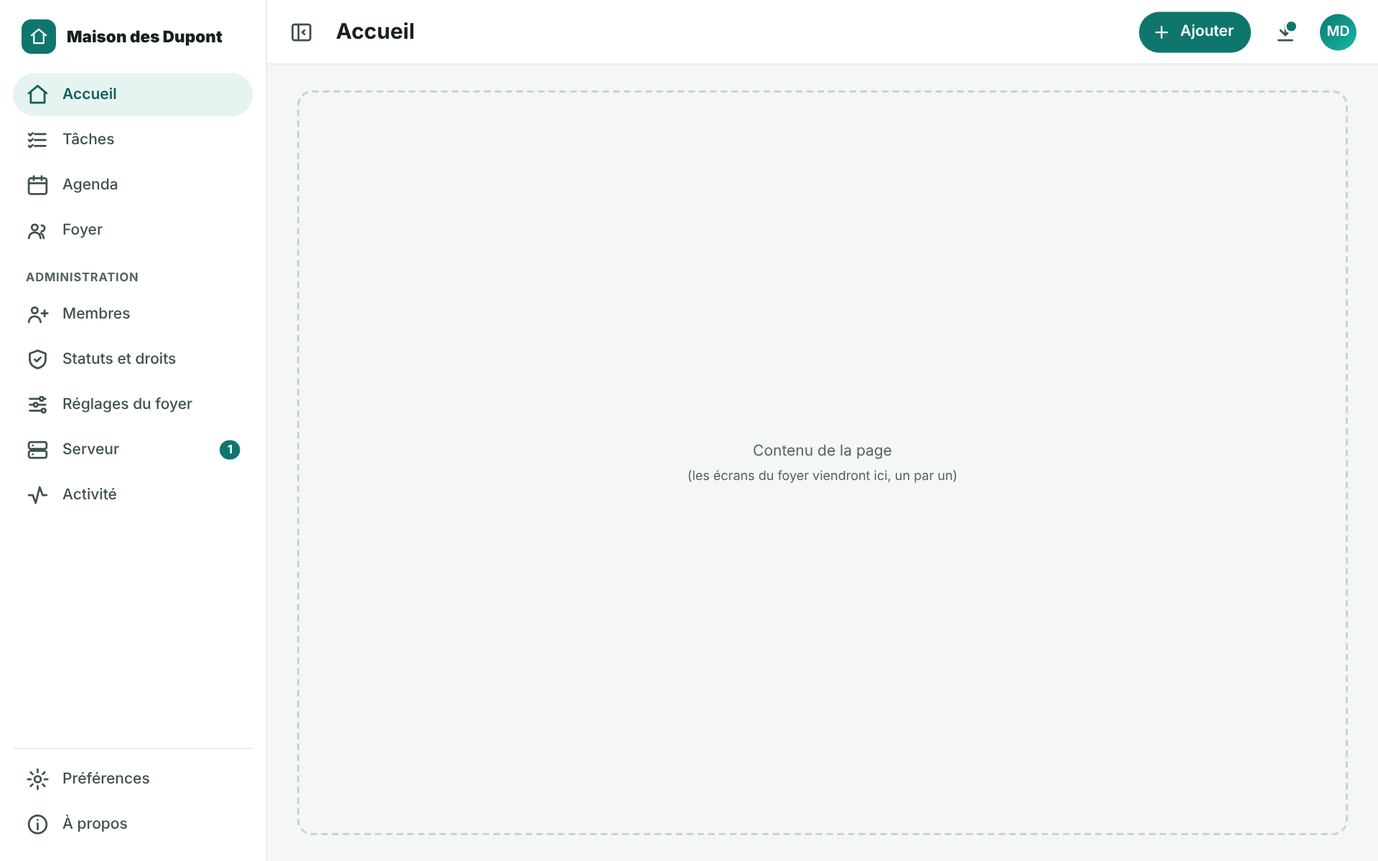
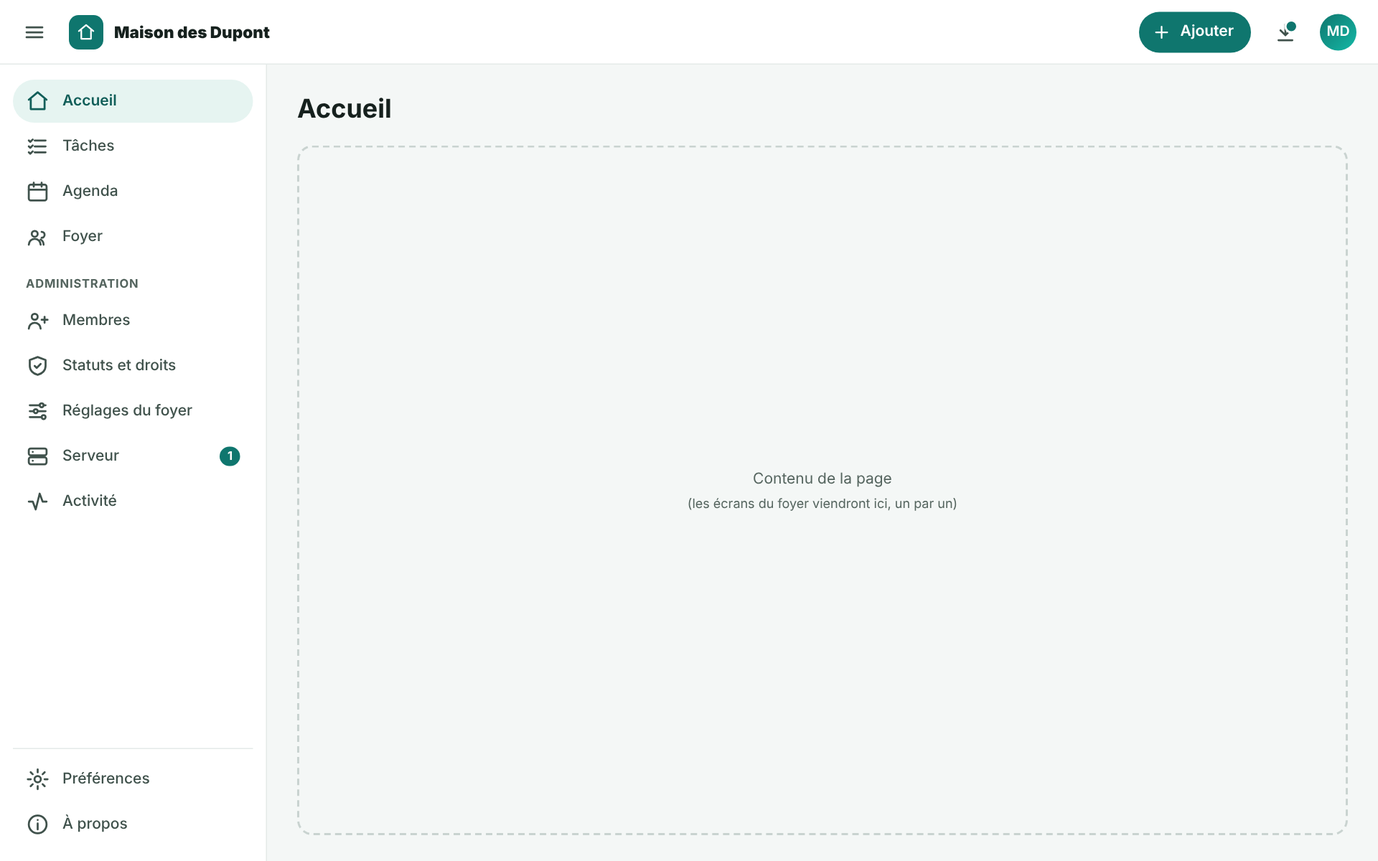
docs(maquettes web): la barre d'outils au-dessus de la navigation
Claude-Session: https://claude.ai/code/session_01CwM8UZavZyFdh7jkANxEp5

diff --git a/docs/mockups/cadre/5-mobile-volet.html b/docs/mockups/cadre/5-mobile-volet.html
@@ -2,17 +2,16 @@
 <html lang="fr"><head><meta charset="utf-8"><title>Cadre — téléphone, menu ouvert</title><link rel="stylesheet" href="cadre.css"></head>
 <body class="mobile">
 <header class="barre">
-    <div class="icone" title="Ouvrir le menu"><svg viewBox="0 0 24 24" width="22" height="22" fill="none" stroke="currentColor" stroke-width="2" stroke-linecap="round" stroke-linejoin="round"><path d="M4 7h16M4 12h16M4 17h16"/></svg></div>
-    <h1>Accueil</h1>
-    
-    <div class="icone point" title="Mise à jour du serveur disponible"><svg viewBox="0 0 24 24" width="22" height="22" fill="none" stroke="currentColor" stroke-width="2" stroke-linecap="round" stroke-linejoin="round"><path d="M12 4v11M7 10l5 5 5-5M5 20h14"/></svg></div>
-    <span class="photo">MD</span>
-  </header><main class="contenu" style="padding:16px"><div class="zone">Contenu de la page<br><span class="muet">(les écrans du foyer viendront ici, un par un)</span></div></main><div style="position:absolute;right:20px;bottom:84px;width:58px;height:58px;border-radius:18px;background:var(--accent);color:#fff;display:flex;align-items:center;justify-content:center;box-shadow:0 6px 16px rgba(15,118,110,.35)"><svg viewBox="0 0 24 24" width="28" height="28" fill="none" stroke="currentColor" stroke-width="2" stroke-linecap="round" stroke-linejoin="round"><path d="M12 5v14M5 12h14"/></svg></div><nav class="onglets"><div class="actif"><svg viewBox="0 0 24 24" width="22" height="22" fill="none" stroke="currentColor" stroke-width="2" stroke-linecap="round" stroke-linejoin="round"><path d="M3 10.5 12 3l9 7.5"/><path d="M5 10v10h14V10"/></svg>Accueil</div><div><svg viewBox="0 0 24 24" width="22" height="22" fill="none" stroke="currentColor" stroke-width="2" stroke-linecap="round" stroke-linejoin="round"><path d="M9 6h11M9 12h11M9 18h11"/><path d="m3 6 1.5 1.5L7 5M3 12l1.5 1.5L7 11M3 18l1.5 1.5L7 17"/></svg>Tâches</div><div><svg viewBox="0 0 24 24" width="22" height="22" fill="none" stroke="currentColor" stroke-width="2" stroke-linecap="round" stroke-linejoin="round"><rect x="3" y="5" width="18" height="16" rx="2"/><path d="M8 3v4M16 3v4M3 10h18"/></svg>Agenda</div></nav><div class="voile"></div><nav class="nav volet">
+  <div class="icone" title="Ouvrir le menu"><svg viewBox="0 0 24 24" width="22" height="22" fill="none" stroke="currentColor" stroke-width="2" stroke-linecap="round" stroke-linejoin="round"><path d="M4 7h16M4 12h16M4 17h16"/></svg></div>
   <div class="marque"><span class="logo"><svg viewBox="0 0 24 24" width="18" height="18" fill="none" stroke="currentColor" stroke-width="2" stroke-linecap="round" stroke-linejoin="round"><path d="M3 10.5 12 3l9 7.5"/><path d="M6 9.5V20h12V9.5"/></svg></span><b>Maison des Dupont</b></div>
+  
+  <div class="icone point" title="Mise à jour du serveur disponible"><svg viewBox="0 0 24 24" width="22" height="22" fill="none" stroke="currentColor" stroke-width="2" stroke-linecap="round" stroke-linejoin="round"><path d="M12 4v11M7 10l5 5 5-5M5 20h14"/></svg></div>
+  <span class="photo">MD</span>
+</header><main class="contenu" style="padding:16px"><h1 class="titre-page">Accueil</h1><div class="zone">Contenu de la page<span class="muet">(les écrans du foyer viendront ici, un par un)</span></div></main><div style="position:absolute;right:20px;bottom:84px;width:58px;height:58px;border-radius:18px;background:var(--accent);color:#fff;display:flex;align-items:center;justify-content:center;box-shadow:0 6px 16px rgba(15,118,110,.35)"><svg viewBox="0 0 24 24" width="28" height="28" fill="none" stroke="currentColor" stroke-width="2" stroke-linecap="round" stroke-linejoin="round"><path d="M12 5v14M5 12h14"/></svg></div><nav class="onglets"><div class="actif"><svg viewBox="0 0 24 24" width="22" height="22" fill="none" stroke="currentColor" stroke-width="2" stroke-linecap="round" stroke-linejoin="round"><path d="M3 10.5 12 3l9 7.5"/><path d="M5 10v10h14V10"/></svg>Accueil</div><div><svg viewBox="0 0 24 24" width="22" height="22" fill="none" stroke="currentColor" stroke-width="2" stroke-linecap="round" stroke-linejoin="round"><path d="M9 6h11M9 12h11M9 18h11"/><path d="m3 6 1.5 1.5L7 5M3 12l1.5 1.5L7 11M3 18l1.5 1.5L7 17"/></svg>Tâches</div><div><svg viewBox="0 0 24 24" width="22" height="22" fill="none" stroke="currentColor" stroke-width="2" stroke-linecap="round" stroke-linejoin="round"><rect x="3" y="5" width="18" height="16" rx="2"/><path d="M8 3v4M16 3v4M3 10h18"/></svg>Agenda</div></nav><div class="voile" style="top:60px"></div><div style="position:absolute;top:60px;bottom:0;left:0"><nav class="nav volet">
   <a class="actif " href="#"><svg viewBox="0 0 24 24" width="22" height="22" fill="none" stroke="currentColor" stroke-width="2" stroke-linecap="round" stroke-linejoin="round"><path d="M3 10.5 12 3l9 7.5"/><path d="M5 10v10h14V10"/></svg><span>Accueil</span></a><a class=" " href="#"><svg viewBox="0 0 24 24" width="22" height="22" fill="none" stroke="currentColor" stroke-width="2" stroke-linecap="round" stroke-linejoin="round"><path d="M9 6h11M9 12h11M9 18h11"/><path d="m3 6 1.5 1.5L7 5M3 12l1.5 1.5L7 11M3 18l1.5 1.5L7 17"/></svg><span>Tâches</span></a><a class=" " href="#"><svg viewBox="0 0 24 24" width="22" height="22" fill="none" stroke="currentColor" stroke-width="2" stroke-linecap="round" stroke-linejoin="round"><rect x="3" y="5" width="18" height="16" rx="2"/><path d="M8 3v4M16 3v4M3 10h18"/></svg><span>Agenda</span></a><a class=" " href="#"><svg viewBox="0 0 24 24" width="22" height="22" fill="none" stroke="currentColor" stroke-width="2" stroke-linecap="round" stroke-linejoin="round"><circle cx="9" cy="9" r="3"/><path d="M3 20a6 6 0 0 1 12 0M16 7a3 3 0 0 1 0 6M18 20a6 6 0 0 0-3-5.2"/></svg><span>Foyer</span></a>
   <div class="groupe">Administration</div>
-  <a class=" " href="#"><svg viewBox="0 0 24 24" width="22" height="22" fill="none" stroke="currentColor" stroke-width="2" stroke-linecap="round" stroke-linejoin="round"><circle cx="9" cy="8" r="3"/><path d="M3 20a6 6 0 0 1 12 0"/><path d="M19 8v6M16 11h6"/></svg><span>Membres</span></a><a class=" " href="#"><svg viewBox="0 0 24 24" width="22" height="22" fill="none" stroke="currentColor" stroke-width="2" stroke-linecap="round" stroke-linejoin="round"><path d="M12 3 4 6v6c0 4.5 3.4 8 8 9 4.6-1 8-4.5 8-9V6z"/><path d="m9 12 2 2 4-4"/></svg><span>Statuts et droits</span></a><a class=" " href="#"><svg viewBox="0 0 24 24" width="22" height="22" fill="none" stroke="currentColor" stroke-width="2" stroke-linecap="round" stroke-linejoin="round"><path d="M4 6h10M18 6h2M4 12h4M12 12h8M4 18h12M20 18h0"/><circle cx="16" cy="6" r="2"/><circle cx="10" cy="12" r="2"/><circle cx="18" cy="18" r="2"/></svg><span>Réglages du foyer</span></a><a class=" point" href="#"><svg viewBox="0 0 24 24" width="22" height="22" fill="none" stroke="currentColor" stroke-width="2" stroke-linecap="round" stroke-linejoin="round"><rect x="3" y="4" width="18" height="7" rx="2"/><rect x="3" y="13" width="18" height="7" rx="2"/><path d="M7 7.5h.01M7 16.5h.01"/></svg><span>Serveur</span><span class="pastille">1</span></a><a class=" " href="#"><svg viewBox="0 0 24 24" width="22" height="22" fill="none" stroke="currentColor" stroke-width="2" stroke-linecap="round" stroke-linejoin="round"><path d="M3 12h4l3 8 4-16 3 8h4"/></svg><span>Activité</span></a>
+  <a class=" " href="#"><svg viewBox="0 0 24 24" width="22" height="22" fill="none" stroke="currentColor" stroke-width="2" stroke-linecap="round" stroke-linejoin="round"><circle cx="9" cy="8" r="3"/><path d="M3 20a6 6 0 0 1 12 0"/><path d="M19 8v6M16 11h6"/></svg><span>Membres</span></a><a class=" " href="#"><svg viewBox="0 0 24 24" width="22" height="22" fill="none" stroke="currentColor" stroke-width="2" stroke-linecap="round" stroke-linejoin="round"><path d="M12 3 4 6v6c0 4.5 3.4 8 8 9 4.6-1 8-4.5 8-9V6z"/><path d="m9 12 2 2 4-4"/></svg><span>Statuts et droits</span></a><a class=" " href="#"><svg viewBox="0 0 24 24" width="22" height="22" fill="none" stroke="currentColor" stroke-width="2" stroke-linecap="round" stroke-linejoin="round"><path d="M4 6h10M18 6h2M4 12h4M12 12h8M4 18h12"/><circle cx="16" cy="6" r="2"/><circle cx="10" cy="12" r="2"/><circle cx="18" cy="18" r="2"/></svg><span>Réglages du foyer</span></a><a class=" point" href="#"><svg viewBox="0 0 24 24" width="22" height="22" fill="none" stroke="currentColor" stroke-width="2" stroke-linecap="round" stroke-linejoin="round"><rect x="3" y="4" width="18" height="7" rx="2"/><rect x="3" y="13" width="18" height="7" rx="2"/><path d="M7 7.5h.01M7 16.5h.01"/></svg><span>Serveur</span><span class="pastille">1</span></a><a class=" " href="#"><svg viewBox="0 0 24 24" width="22" height="22" fill="none" stroke="currentColor" stroke-width="2" stroke-linecap="round" stroke-linejoin="round"><path d="M3 12h4l3 8 4-16 3 8h4"/></svg><span>Activité</span></a>
   <div class="bas"><a class=" " href="#"><svg viewBox="0 0 24 24" width="22" height="22" fill="none" stroke="currentColor" stroke-width="2" stroke-linecap="round" stroke-linejoin="round"><circle cx="12" cy="12" r="3.2"/><path d="M12 2v3M12 19v3M2 12h3M19 12h3M4.9 4.9l2.1 2.1M17 17l2.1 2.1M4.9 19.1 7 17M17 7l2.1-2.1"/></svg><span>Préférences</span></a><a class=" " href="#"><svg viewBox="0 0 24 24" width="22" height="22" fill="none" stroke="currentColor" stroke-width="2" stroke-linecap="round" stroke-linejoin="round"><circle cx="12" cy="12" r="9"/><path d="M12 11v6M12 7.5h.01"/></svg><span>À propos</span></a></div>
   
-</nav>
+</nav></div>
 </body></html>

diff --git a/docs/mockups/cadre/3-ordi-menu-compte.html b/docs/mockups/cadre/3-ordi-menu-compte.html
@@ -1,20 +1,19 @@
 <!doctype html>
 <html lang="fr"><head><meta charset="utf-8"><title>Cadre — menu du compte</title><link rel="stylesheet" href="cadre.css"></head>
 <body class="ordi">
-<nav class="nav ">
+<header class="barre">
+  <div class="icone" title="Replier ou déplier le menu"><svg viewBox="0 0 24 24" width="22" height="22" fill="none" stroke="currentColor" stroke-width="2" stroke-linecap="round" stroke-linejoin="round"><path d="M4 7h16M4 12h16M4 17h16"/></svg></div>
   <div class="marque"><span class="logo"><svg viewBox="0 0 24 24" width="18" height="18" fill="none" stroke="currentColor" stroke-width="2" stroke-linecap="round" stroke-linejoin="round"><path d="M3 10.5 12 3l9 7.5"/><path d="M6 9.5V20h12V9.5"/></svg></span><b>Maison des Dupont</b></div>
+  <div class="ajouter"><svg viewBox="0 0 24 24" width="18" height="18" fill="none" stroke="currentColor" stroke-width="2" stroke-linecap="round" stroke-linejoin="round"><path d="M12 5v14M5 12h14"/></svg>Ajouter</div>
+  <div class="icone point" title="Mise à jour du serveur disponible"><svg viewBox="0 0 24 24" width="22" height="22" fill="none" stroke="currentColor" stroke-width="2" stroke-linecap="round" stroke-linejoin="round"><path d="M12 4v11M7 10l5 5 5-5M5 20h14"/></svg></div>
+  <span class="photo">MD</span>
+</header><div class="dessous"><nav class="nav ">
   <a class="actif " href="#"><svg viewBox="0 0 24 24" width="22" height="22" fill="none" stroke="currentColor" stroke-width="2" stroke-linecap="round" stroke-linejoin="round"><path d="M3 10.5 12 3l9 7.5"/><path d="M5 10v10h14V10"/></svg><span>Accueil</span></a><a class=" " href="#"><svg viewBox="0 0 24 24" width="22" height="22" fill="none" stroke="currentColor" stroke-width="2" stroke-linecap="round" stroke-linejoin="round"><path d="M9 6h11M9 12h11M9 18h11"/><path d="m3 6 1.5 1.5L7 5M3 12l1.5 1.5L7 11M3 18l1.5 1.5L7 17"/></svg><span>Tâches</span></a><a class=" " href="#"><svg viewBox="0 0 24 24" width="22" height="22" fill="none" stroke="currentColor" stroke-width="2" stroke-linecap="round" stroke-linejoin="round"><rect x="3" y="5" width="18" height="16" rx="2"/><path d="M8 3v4M16 3v4M3 10h18"/></svg><span>Agenda</span></a><a class=" " href="#"><svg viewBox="0 0 24 24" width="22" height="22" fill="none" stroke="currentColor" stroke-width="2" stroke-linecap="round" stroke-linejoin="round"><circle cx="9" cy="9" r="3"/><path d="M3 20a6 6 0 0 1 12 0M16 7a3 3 0 0 1 0 6M18 20a6 6 0 0 0-3-5.2"/></svg><span>Foyer</span></a>
   <div class="groupe">Administration</div>
-  <a class=" " href="#"><svg viewBox="0 0 24 24" width="22" height="22" fill="none" stroke="currentColor" stroke-width="2" stroke-linecap="round" stroke-linejoin="round"><circle cx="9" cy="8" r="3"/><path d="M3 20a6 6 0 0 1 12 0"/><path d="M19 8v6M16 11h6"/></svg><span>Membres</span></a><a class=" " href="#"><svg viewBox="0 0 24 24" width="22" height="22" fill="none" stroke="currentColor" stroke-width="2" stroke-linecap="round" stroke-linejoin="round"><path d="M12 3 4 6v6c0 4.5 3.4 8 8 9 4.6-1 8-4.5 8-9V6z"/><path d="m9 12 2 2 4-4"/></svg><span>Statuts et droits</span></a><a class=" " href="#"><svg viewBox="0 0 24 24" width="22" height="22" fill="none" stroke="currentColor" stroke-width="2" stroke-linecap="round" stroke-linejoin="round"><path d="M4 6h10M18 6h2M4 12h4M12 12h8M4 18h12M20 18h0"/><circle cx="16" cy="6" r="2"/><circle cx="10" cy="12" r="2"/><circle cx="18" cy="18" r="2"/></svg><span>Réglages du foyer</span></a><a class=" point" href="#"><svg viewBox="0 0 24 24" width="22" height="22" fill="none" stroke="currentColor" stroke-width="2" stroke-linecap="round" stroke-linejoin="round"><rect x="3" y="4" width="18" height="7" rx="2"/><rect x="3" y="13" width="18" height="7" rx="2"/><path d="M7 7.5h.01M7 16.5h.01"/></svg><span>Serveur</span><span class="pastille">1</span></a><a class=" " href="#"><svg viewBox="0 0 24 24" width="22" height="22" fill="none" stroke="currentColor" stroke-width="2" stroke-linecap="round" stroke-linejoin="round"><path d="M3 12h4l3 8 4-16 3 8h4"/></svg><span>Activité</span></a>
+  <a class=" " href="#"><svg viewBox="0 0 24 24" width="22" height="22" fill="none" stroke="currentColor" stroke-width="2" stroke-linecap="round" stroke-linejoin="round"><circle cx="9" cy="8" r="3"/><path d="M3 20a6 6 0 0 1 12 0"/><path d="M19 8v6M16 11h6"/></svg><span>Membres</span></a><a class=" " href="#"><svg viewBox="0 0 24 24" width="22" height="22" fill="none" stroke="currentColor" stroke-width="2" stroke-linecap="round" stroke-linejoin="round"><path d="M12 3 4 6v6c0 4.5 3.4 8 8 9 4.6-1 8-4.5 8-9V6z"/><path d="m9 12 2 2 4-4"/></svg><span>Statuts et droits</span></a><a class=" " href="#"><svg viewBox="0 0 24 24" width="22" height="22" fill="none" stroke="currentColor" stroke-width="2" stroke-linecap="round" stroke-linejoin="round"><path d="M4 6h10M18 6h2M4 12h4M12 12h8M4 18h12"/><circle cx="16" cy="6" r="2"/><circle cx="10" cy="12" r="2"/><circle cx="18" cy="18" r="2"/></svg><span>Réglages du foyer</span></a><a class=" point" href="#"><svg viewBox="0 0 24 24" width="22" height="22" fill="none" stroke="currentColor" stroke-width="2" stroke-linecap="round" stroke-linejoin="round"><rect x="3" y="4" width="18" height="7" rx="2"/><rect x="3" y="13" width="18" height="7" rx="2"/><path d="M7 7.5h.01M7 16.5h.01"/></svg><span>Serveur</span><span class="pastille">1</span></a><a class=" " href="#"><svg viewBox="0 0 24 24" width="22" height="22" fill="none" stroke="currentColor" stroke-width="2" stroke-linecap="round" stroke-linejoin="round"><path d="M3 12h4l3 8 4-16 3 8h4"/></svg><span>Activité</span></a>
   <div class="bas"><a class=" " href="#"><svg viewBox="0 0 24 24" width="22" height="22" fill="none" stroke="currentColor" stroke-width="2" stroke-linecap="round" stroke-linejoin="round"><circle cx="12" cy="12" r="3.2"/><path d="M12 2v3M12 19v3M2 12h3M19 12h3M4.9 4.9l2.1 2.1M17 17l2.1 2.1M4.9 19.1 7 17M17 7l2.1-2.1"/></svg><span>Préférences</span></a><a class=" " href="#"><svg viewBox="0 0 24 24" width="22" height="22" fill="none" stroke="currentColor" stroke-width="2" stroke-linecap="round" stroke-linejoin="round"><circle cx="12" cy="12" r="9"/><path d="M12 11v6M12 7.5h.01"/></svg><span>À propos</span></a></div>
   
-</nav><div class="principal"><header class="barre">
-    <div class="icone" title="Replier le menu"><svg viewBox="0 0 24 24" width="22" height="22" fill="none" stroke="currentColor" stroke-width="2" stroke-linecap="round" stroke-linejoin="round"><rect x="3" y="4" width="18" height="16" rx="2"/><path d="M9 4v16M15 10l-2 2 2 2"/></svg></div>
-    <h1>Accueil</h1>
-    <div class="ajouter"><svg viewBox="0 0 24 24" width="18" height="18" fill="none" stroke="currentColor" stroke-width="2" stroke-linecap="round" stroke-linejoin="round"><path d="M12 5v14M5 12h14"/></svg>Ajouter</div>
-    <div class="icone point" title="Mise à jour du serveur disponible"><svg viewBox="0 0 24 24" width="22" height="22" fill="none" stroke="currentColor" stroke-width="2" stroke-linecap="round" stroke-linejoin="round"><path d="M12 4v11M7 10l5 5 5-5M5 20h14"/></svg></div>
-    <span class="photo">MD</span>
-  </header><main class="contenu"><div class="zone">Contenu de la page<br><span class="muet">(les écrans du foyer viendront ici, un par un)</span></div></main></div><div class="menu">
+</nav><div class="principal"><main class="contenu"><h1 class="titre-page">Accueil</h1><div class="zone">Contenu de la page<span class="muet">(les écrans du foyer viendront ici, un par un)</span></div></main></div></div><div class="menu">
   <div class="qui"><span class="photo" style="width:42px;height:42px;font-size:15px">MD</span><div><b style="font-size:14px">Marie Dupont</b><div class="muet">marie · Administratrice</div></div></div>
   <a href="#"><svg viewBox="0 0 24 24" width="20" height="20" fill="none" stroke="currentColor" stroke-width="2" stroke-linecap="round" stroke-linejoin="round"><circle cx="12" cy="8" r="4"/><path d="M4 21a8 8 0 0 1 16 0"/></svg>Mon profil</a>
   <a href="#"><svg viewBox="0 0 24 24" width="20" height="20" fill="none" stroke="currentColor" stroke-width="2" stroke-linecap="round" stroke-linejoin="round"><rect x="7" y="2" width="10" height="20" rx="2"/><path d="M11 18h2"/></svg>Mes appareils</a>

diff --git a/docs/mockups/cadre/2-ordi-replie.html b/docs/mockups/cadre/2-ordi-replie.html
@@ -1,18 +1,17 @@
 <!doctype html>
 <html lang="fr"><head><meta charset="utf-8"><title>Cadre — replié</title><link rel="stylesheet" href="cadre.css"></head>
 <body class="ordi">
-<nav class="nav repliee">
+<header class="barre">
+  <div class="icone" title="Replier ou déplier le menu"><svg viewBox="0 0 24 24" width="22" height="22" fill="none" stroke="currentColor" stroke-width="2" stroke-linecap="round" stroke-linejoin="round"><path d="M4 7h16M4 12h16M4 17h16"/></svg></div>
   <div class="marque"><span class="logo"><svg viewBox="0 0 24 24" width="18" height="18" fill="none" stroke="currentColor" stroke-width="2" stroke-linecap="round" stroke-linejoin="round"><path d="M3 10.5 12 3l9 7.5"/><path d="M6 9.5V20h12V9.5"/></svg></span><b>Maison des Dupont</b></div>
+  <div class="ajouter"><svg viewBox="0 0 24 24" width="18" height="18" fill="none" stroke="currentColor" stroke-width="2" stroke-linecap="round" stroke-linejoin="round"><path d="M12 5v14M5 12h14"/></svg>Ajouter</div>
+  <div class="icone point" title="Mise à jour du serveur disponible"><svg viewBox="0 0 24 24" width="22" height="22" fill="none" stroke="currentColor" stroke-width="2" stroke-linecap="round" stroke-linejoin="round"><path d="M12 4v11M7 10l5 5 5-5M5 20h14"/></svg></div>
+  <span class="photo">MD</span>
+</header><div class="dessous"><nav class="nav repliee">
   <a class="actif " href="#"><svg viewBox="0 0 24 24" width="22" height="22" fill="none" stroke="currentColor" stroke-width="2" stroke-linecap="round" stroke-linejoin="round"><path d="M3 10.5 12 3l9 7.5"/><path d="M5 10v10h14V10"/></svg><span>Accueil</span></a><a class=" " href="#"><svg viewBox="0 0 24 24" width="22" height="22" fill="none" stroke="currentColor" stroke-width="2" stroke-linecap="round" stroke-linejoin="round"><path d="M9 6h11M9 12h11M9 18h11"/><path d="m3 6 1.5 1.5L7 5M3 12l1.5 1.5L7 11M3 18l1.5 1.5L7 17"/></svg><span>Tâches</span></a><a class=" " href="#"><svg viewBox="0 0 24 24" width="22" height="22" fill="none" stroke="currentColor" stroke-width="2" stroke-linecap="round" stroke-linejoin="round"><rect x="3" y="5" width="18" height="16" rx="2"/><path d="M8 3v4M16 3v4M3 10h18"/></svg><span>Agenda</span></a><a class=" " href="#"><svg viewBox="0 0 24 24" width="22" height="22" fill="none" stroke="currentColor" stroke-width="2" stroke-linecap="round" stroke-linejoin="round"><circle cx="9" cy="9" r="3"/><path d="M3 20a6 6 0 0 1 12 0M16 7a3 3 0 0 1 0 6M18 20a6 6 0 0 0-3-5.2"/></svg><span>Foyer</span></a>
   <div class="groupe">Administration</div>
-  <a class=" " href="#"><svg viewBox="0 0 24 24" width="22" height="22" fill="none" stroke="currentColor" stroke-width="2" stroke-linecap="round" stroke-linejoin="round"><circle cx="9" cy="8" r="3"/><path d="M3 20a6 6 0 0 1 12 0"/><path d="M19 8v6M16 11h6"/></svg><span>Membres</span></a><a class=" " href="#"><svg viewBox="0 0 24 24" width="22" height="22" fill="none" stroke="currentColor" stroke-width="2" stroke-linecap="round" stroke-linejoin="round"><path d="M12 3 4 6v6c0 4.5 3.4 8 8 9 4.6-1 8-4.5 8-9V6z"/><path d="m9 12 2 2 4-4"/></svg><span>Statuts et droits</span></a><a class=" " href="#"><svg viewBox="0 0 24 24" width="22" height="22" fill="none" stroke="currentColor" stroke-width="2" stroke-linecap="round" stroke-linejoin="round"><path d="M4 6h10M18 6h2M4 12h4M12 12h8M4 18h12M20 18h0"/><circle cx="16" cy="6" r="2"/><circle cx="10" cy="12" r="2"/><circle cx="18" cy="18" r="2"/></svg><span>Réglages du foyer</span></a><a class=" point" href="#"><svg viewBox="0 0 24 24" width="22" height="22" fill="none" stroke="currentColor" stroke-width="2" stroke-linecap="round" stroke-linejoin="round"><rect x="3" y="4" width="18" height="7" rx="2"/><rect x="3" y="13" width="18" height="7" rx="2"/><path d="M7 7.5h.01M7 16.5h.01"/></svg><span>Serveur</span><span class="pastille">1</span></a><a class=" " href="#"><svg viewBox="0 0 24 24" width="22" height="22" fill="none" stroke="currentColor" stroke-width="2" stroke-linecap="round" stroke-linejoin="round"><path d="M3 12h4l3 8 4-16 3 8h4"/></svg><span>Activité</span></a>
+  <a class=" " href="#"><svg viewBox="0 0 24 24" width="22" height="22" fill="none" stroke="currentColor" stroke-width="2" stroke-linecap="round" stroke-linejoin="round"><circle cx="9" cy="8" r="3"/><path d="M3 20a6 6 0 0 1 12 0"/><path d="M19 8v6M16 11h6"/></svg><span>Membres</span></a><a class=" " href="#"><svg viewBox="0 0 24 24" width="22" height="22" fill="none" stroke="currentColor" stroke-width="2" stroke-linecap="round" stroke-linejoin="round"><path d="M12 3 4 6v6c0 4.5 3.4 8 8 9 4.6-1 8-4.5 8-9V6z"/><path d="m9 12 2 2 4-4"/></svg><span>Statuts et droits</span></a><a class=" " href="#"><svg viewBox="0 0 24 24" width="22" height="22" fill="none" stroke="currentColor" stroke-width="2" stroke-linecap="round" stroke-linejoin="round"><path d="M4 6h10M18 6h2M4 12h4M12 12h8M4 18h12"/><circle cx="16" cy="6" r="2"/><circle cx="10" cy="12" r="2"/><circle cx="18" cy="18" r="2"/></svg><span>Réglages du foyer</span></a><a class=" point" href="#"><svg viewBox="0 0 24 24" width="22" height="22" fill="none" stroke="currentColor" stroke-width="2" stroke-linecap="round" stroke-linejoin="round"><rect x="3" y="4" width="18" height="7" rx="2"/><rect x="3" y="13" width="18" height="7" rx="2"/><path d="M7 7.5h.01M7 16.5h.01"/></svg><span>Serveur</span><span class="pastille">1</span></a><a class=" " href="#"><svg viewBox="0 0 24 24" width="22" height="22" fill="none" stroke="currentColor" stroke-width="2" stroke-linecap="round" stroke-linejoin="round"><path d="M3 12h4l3 8 4-16 3 8h4"/></svg><span>Activité</span></a>
   <div class="bas"><a class=" " href="#"><svg viewBox="0 0 24 24" width="22" height="22" fill="none" stroke="currentColor" stroke-width="2" stroke-linecap="round" stroke-linejoin="round"><circle cx="12" cy="12" r="3.2"/><path d="M12 2v3M12 19v3M2 12h3M19 12h3M4.9 4.9l2.1 2.1M17 17l2.1 2.1M4.9 19.1 7 17M17 7l2.1-2.1"/></svg><span>Préférences</span></a><a class=" " href="#"><svg viewBox="0 0 24 24" width="22" height="22" fill="none" stroke="currentColor" stroke-width="2" stroke-linecap="round" stroke-linejoin="round"><circle cx="12" cy="12" r="9"/><path d="M12 11v6M12 7.5h.01"/></svg><span>À propos</span></a></div>
-  <div class="bulle" style="top:118px">Tâches</div>
-</nav><div class="principal"><header class="barre">
-    <div class="icone" title="Déplier le menu"><svg viewBox="0 0 24 24" width="22" height="22" fill="none" stroke="currentColor" stroke-width="2" stroke-linecap="round" stroke-linejoin="round"><rect x="3" y="4" width="18" height="16" rx="2"/><path d="M9 4v16M13 10l2 2-2 2"/></svg></div>
-    <h1>Accueil</h1>
-    <div class="ajouter"><svg viewBox="0 0 24 24" width="18" height="18" fill="none" stroke="currentColor" stroke-width="2" stroke-linecap="round" stroke-linejoin="round"><path d="M12 5v14M5 12h14"/></svg>Ajouter</div>
-    <div class="icone point" title="Mise à jour du serveur disponible"><svg viewBox="0 0 24 24" width="22" height="22" fill="none" stroke="currentColor" stroke-width="2" stroke-linecap="round" stroke-linejoin="round"><path d="M12 4v11M7 10l5 5 5-5M5 20h14"/></svg></div>
-    <span class="photo">MD</span>
-  </header><main class="contenu"><div class="zone">Contenu de la page<br><span class="muet">(les écrans du foyer viendront ici, un par un)</span></div></main></div>
+  <div class="bulle" style="top:58px">Tâches</div>
+</nav><div class="principal"><main class="contenu"><h1 class="titre-page">Accueil</h1><div class="zone">Contenu de la page<span class="muet">(les écrans du foyer viendront ici, un par un)</span></div></main></div></div>
 </body></html>

diff --git a/docs/mockups/cadre/1-ordi-deplie.html b/docs/mockups/cadre/1-ordi-deplie.html
@@ -1,18 +1,17 @@
 <!doctype html>
 <html lang="fr"><head><meta charset="utf-8"><title>Cadre — déplié</title><link rel="stylesheet" href="cadre.css"></head>
 <body class="ordi">
-<nav class="nav ">
+<header class="barre">
+  <div class="icone" title="Replier ou déplier le menu"><svg viewBox="0 0 24 24" width="22" height="22" fill="none" stroke="currentColor" stroke-width="2" stroke-linecap="round" stroke-linejoin="round"><path d="M4 7h16M4 12h16M4 17h16"/></svg></div>
   <div class="marque"><span class="logo"><svg viewBox="0 0 24 24" width="18" height="18" fill="none" stroke="currentColor" stroke-width="2" stroke-linecap="round" stroke-linejoin="round"><path d="M3 10.5 12 3l9 7.5"/><path d="M6 9.5V20h12V9.5"/></svg></span><b>Maison des Dupont</b></div>
+  <div class="ajouter"><svg viewBox="0 0 24 24" width="18" height="18" fill="none" stroke="currentColor" stroke-width="2" stroke-linecap="round" stroke-linejoin="round"><path d="M12 5v14M5 12h14"/></svg>Ajouter</div>
+  <div class="icone point" title="Mise à jour du serveur disponible"><svg viewBox="0 0 24 24" width="22" height="22" fill="none" stroke="currentColor" stroke-width="2" stroke-linecap="round" stroke-linejoin="round"><path d="M12 4v11M7 10l5 5 5-5M5 20h14"/></svg></div>
+  <span class="photo">MD</span>
+</header><div class="dessous"><nav class="nav ">
   <a class="actif " href="#"><svg viewBox="0 0 24 24" width="22" height="22" fill="none" stroke="currentColor" stroke-width="2" stroke-linecap="round" stroke-linejoin="round"><path d="M3 10.5 12 3l9 7.5"/><path d="M5 10v10h14V10"/></svg><span>Accueil</span></a><a class=" " href="#"><svg viewBox="0 0 24 24" width="22" height="22" fill="none" stroke="currentColor" stroke-width="2" stroke-linecap="round" stroke-linejoin="round"><path d="M9 6h11M9 12h11M9 18h11"/><path d="m3 6 1.5 1.5L7 5M3 12l1.5 1.5L7 11M3 18l1.5 1.5L7 17"/></svg><span>Tâches</span></a><a class=" " href="#"><svg viewBox="0 0 24 24" width="22" height="22" fill="none" stroke="currentColor" stroke-width="2" stroke-linecap="round" stroke-linejoin="round"><rect x="3" y="5" width="18" height="16" rx="2"/><path d="M8 3v4M16 3v4M3 10h18"/></svg><span>Agenda</span></a><a class=" " href="#"><svg viewBox="0 0 24 24" width="22" height="22" fill="none" stroke="currentColor" stroke-width="2" stroke-linecap="round" stroke-linejoin="round"><circle cx="9" cy="9" r="3"/><path d="M3 20a6 6 0 0 1 12 0M16 7a3 3 0 0 1 0 6M18 20a6 6 0 0 0-3-5.2"/></svg><span>Foyer</span></a>
   <div class="groupe">Administration</div>
-  <a class=" " href="#"><svg viewBox="0 0 24 24" width="22" height="22" fill="none" stroke="currentColor" stroke-width="2" stroke-linecap="round" stroke-linejoin="round"><circle cx="9" cy="8" r="3"/><path d="M3 20a6 6 0 0 1 12 0"/><path d="M19 8v6M16 11h6"/></svg><span>Membres</span></a><a class=" " href="#"><svg viewBox="0 0 24 24" width="22" height="22" fill="none" stroke="currentColor" stroke-width="2" stroke-linecap="round" stroke-linejoin="round"><path d="M12 3 4 6v6c0 4.5 3.4 8 8 9 4.6-1 8-4.5 8-9V6z"/><path d="m9 12 2 2 4-4"/></svg><span>Statuts et droits</span></a><a class=" " href="#"><svg viewBox="0 0 24 24" width="22" height="22" fill="none" stroke="currentColor" stroke-width="2" stroke-linecap="round" stroke-linejoin="round"><path d="M4 6h10M18 6h2M4 12h4M12 12h8M4 18h12M20 18h0"/><circle cx="16" cy="6" r="2"/><circle cx="10" cy="12" r="2"/><circle cx="18" cy="18" r="2"/></svg><span>Réglages du foyer</span></a><a class=" point" href="#"><svg viewBox="0 0 24 24" width="22" height="22" fill="none" stroke="currentColor" stroke-width="2" stroke-linecap="round" stroke-linejoin="round"><rect x="3" y="4" width="18" height="7" rx="2"/><rect x="3" y="13" width="18" height="7" rx="2"/><path d="M7 7.5h.01M7 16.5h.01"/></svg><span>Serveur</span><span class="pastille">1</span></a><a class=" " href="#"><svg viewBox="0 0 24 24" width="22" height="22" fill="none" stroke="currentColor" stroke-width="2" stroke-linecap="round" stroke-linejoin="round"><path d="M3 12h4l3 8 4-16 3 8h4"/></svg><span>Activité</span></a>
+  <a class=" " href="#"><svg viewBox="0 0 24 24" width="22" height="22" fill="none" stroke="currentColor" stroke-width="2" stroke-linecap="round" stroke-linejoin="round"><circle cx="9" cy="8" r="3"/><path d="M3 20a6 6 0 0 1 12 0"/><path d="M19 8v6M16 11h6"/></svg><span>Membres</span></a><a class=" " href="#"><svg viewBox="0 0 24 24" width="22" height="22" fill="none" stroke="currentColor" stroke-width="2" stroke-linecap="round" stroke-linejoin="round"><path d="M12 3 4 6v6c0 4.5 3.4 8 8 9 4.6-1 8-4.5 8-9V6z"/><path d="m9 12 2 2 4-4"/></svg><span>Statuts et droits</span></a><a class=" " href="#"><svg viewBox="0 0 24 24" width="22" height="22" fill="none" stroke="currentColor" stroke-width="2" stroke-linecap="round" stroke-linejoin="round"><path d="M4 6h10M18 6h2M4 12h4M12 12h8M4 18h12"/><circle cx="16" cy="6" r="2"/><circle cx="10" cy="12" r="2"/><circle cx="18" cy="18" r="2"/></svg><span>Réglages du foyer</span></a><a class=" point" href="#"><svg viewBox="0 0 24 24" width="22" height="22" fill="none" stroke="currentColor" stroke-width="2" stroke-linecap="round" stroke-linejoin="round"><rect x="3" y="4" width="18" height="7" rx="2"/><rect x="3" y="13" width="18" height="7" rx="2"/><path d="M7 7.5h.01M7 16.5h.01"/></svg><span>Serveur</span><span class="pastille">1</span></a><a class=" " href="#"><svg viewBox="0 0 24 24" width="22" height="22" fill="none" stroke="currentColor" stroke-width="2" stroke-linecap="round" stroke-linejoin="round"><path d="M3 12h4l3 8 4-16 3 8h4"/></svg><span>Activité</span></a>
   <div class="bas"><a class=" " href="#"><svg viewBox="0 0 24 24" width="22" height="22" fill="none" stroke="currentColor" stroke-width="2" stroke-linecap="round" stroke-linejoin="round"><circle cx="12" cy="12" r="3.2"/><path d="M12 2v3M12 19v3M2 12h3M19 12h3M4.9 4.9l2.1 2.1M17 17l2.1 2.1M4.9 19.1 7 17M17 7l2.1-2.1"/></svg><span>Préférences</span></a><a class=" " href="#"><svg viewBox="0 0 24 24" width="22" height="22" fill="none" stroke="currentColor" stroke-width="2" stroke-linecap="round" stroke-linejoin="round"><circle cx="12" cy="12" r="9"/><path d="M12 11v6M12 7.5h.01"/></svg><span>À propos</span></a></div>
   
-</nav><div class="principal"><header class="barre">
-    <div class="icone" title="Replier le menu"><svg viewBox="0 0 24 24" width="22" height="22" fill="none" stroke="currentColor" stroke-width="2" stroke-linecap="round" stroke-linejoin="round"><rect x="3" y="4" width="18" height="16" rx="2"/><path d="M9 4v16M15 10l-2 2 2 2"/></svg></div>
-    <h1>Accueil</h1>
-    <div class="ajouter"><svg viewBox="0 0 24 24" width="18" height="18" fill="none" stroke="currentColor" stroke-width="2" stroke-linecap="round" stroke-linejoin="round"><path d="M12 5v14M5 12h14"/></svg>Ajouter</div>
-    <div class="icone point" title="Mise à jour du serveur disponible"><svg viewBox="0 0 24 24" width="22" height="22" fill="none" stroke="currentColor" stroke-width="2" stroke-linecap="round" stroke-linejoin="round"><path d="M12 4v11M7 10l5 5 5-5M5 20h14"/></svg></div>
-    <span class="photo">MD</span>
-  </header><main class="contenu"><div class="zone">Contenu de la page<br><span class="muet">(les écrans du foyer viendront ici, un par un)</span></div></main></div>
+</nav><div class="principal"><main class="contenu"><h1 class="titre-page">Accueil</h1><div class="zone">Contenu de la page<span class="muet">(les écrans du foyer viendront ici, un par un)</span></div></main></div></div>
 </body></html>

diff --git a/docs/mockups/cadre/4-mobile.html b/docs/mockups/cadre/4-mobile.html
@@ -2,10 +2,10 @@
 <html lang="fr"><head><meta charset="utf-8"><title>Cadre — téléphone</title><link rel="stylesheet" href="cadre.css"></head>
 <body class="mobile">
 <header class="barre">
-    <div class="icone" title="Ouvrir le menu"><svg viewBox="0 0 24 24" width="22" height="22" fill="none" stroke="currentColor" stroke-width="2" stroke-linecap="round" stroke-linejoin="round"><path d="M4 7h16M4 12h16M4 17h16"/></svg></div>
-    <h1>Accueil</h1>
-    
-    <div class="icone point" title="Mise à jour du serveur disponible"><svg viewBox="0 0 24 24" width="22" height="22" fill="none" stroke="currentColor" stroke-width="2" stroke-linecap="round" stroke-linejoin="round"><path d="M12 4v11M7 10l5 5 5-5M5 20h14"/></svg></div>
-    <span class="photo">MD</span>
-  </header><main class="contenu" style="padding:16px"><div class="zone">Contenu de la page<br><span class="muet">(les écrans du foyer viendront ici, un par un)</span></div></main><div style="position:absolute;right:20px;bottom:84px;width:58px;height:58px;border-radius:18px;background:var(--accent);color:#fff;display:flex;align-items:center;justify-content:center;box-shadow:0 6px 16px rgba(15,118,110,.35)"><svg viewBox="0 0 24 24" width="28" height="28" fill="none" stroke="currentColor" stroke-width="2" stroke-linecap="round" stroke-linejoin="round"><path d="M12 5v14M5 12h14"/></svg></div><nav class="onglets"><div class="actif"><svg viewBox="0 0 24 24" width="22" height="22" fill="none" stroke="currentColor" stroke-width="2" stroke-linecap="round" stroke-linejoin="round"><path d="M3 10.5 12 3l9 7.5"/><path d="M5 10v10h14V10"/></svg>Accueil</div><div><svg viewBox="0 0 24 24" width="22" height="22" fill="none" stroke="currentColor" stroke-width="2" stroke-linecap="round" stroke-linejoin="round"><path d="M9 6h11M9 12h11M9 18h11"/><path d="m3 6 1.5 1.5L7 5M3 12l1.5 1.5L7 11M3 18l1.5 1.5L7 17"/></svg>Tâches</div><div><svg viewBox="0 0 24 24" width="22" height="22" fill="none" stroke="currentColor" stroke-width="2" stroke-linecap="round" stroke-linejoin="round"><rect x="3" y="5" width="18" height="16" rx="2"/><path d="M8 3v4M16 3v4M3 10h18"/></svg>Agenda</div></nav>
+  <div class="icone" title="Ouvrir le menu"><svg viewBox="0 0 24 24" width="22" height="22" fill="none" stroke="currentColor" stroke-width="2" stroke-linecap="round" stroke-linejoin="round"><path d="M4 7h16M4 12h16M4 17h16"/></svg></div>
+  <div class="marque"><span class="logo"><svg viewBox="0 0 24 24" width="18" height="18" fill="none" stroke="currentColor" stroke-width="2" stroke-linecap="round" stroke-linejoin="round"><path d="M3 10.5 12 3l9 7.5"/><path d="M6 9.5V20h12V9.5"/></svg></span><b>Maison des Dupont</b></div>
+  
+  <div class="icone point" title="Mise à jour du serveur disponible"><svg viewBox="0 0 24 24" width="22" height="22" fill="none" stroke="currentColor" stroke-width="2" stroke-linecap="round" stroke-linejoin="round"><path d="M12 4v11M7 10l5 5 5-5M5 20h14"/></svg></div>
+  <span class="photo">MD</span>
+</header><main class="contenu" style="padding:16px"><h1 class="titre-page">Accueil</h1><div class="zone">Contenu de la page<span class="muet">(les écrans du foyer viendront ici, un par un)</span></div></main><div style="position:absolute;right:20px;bottom:84px;width:58px;height:58px;border-radius:18px;background:var(--accent);color:#fff;display:flex;align-items:center;justify-content:center;box-shadow:0 6px 16px rgba(15,118,110,.35)"><svg viewBox="0 0 24 24" width="28" height="28" fill="none" stroke="currentColor" stroke-width="2" stroke-linecap="round" stroke-linejoin="round"><path d="M12 5v14M5 12h14"/></svg></div><nav class="onglets"><div class="actif"><svg viewBox="0 0 24 24" width="22" height="22" fill="none" stroke="currentColor" stroke-width="2" stroke-linecap="round" stroke-linejoin="round"><path d="M3 10.5 12 3l9 7.5"/><path d="M5 10v10h14V10"/></svg>Accueil</div><div><svg viewBox="0 0 24 24" width="22" height="22" fill="none" stroke="currentColor" stroke-width="2" stroke-linecap="round" stroke-linejoin="round"><path d="M9 6h11M9 12h11M9 18h11"/><path d="m3 6 1.5 1.5L7 5M3 12l1.5 1.5L7 11M3 18l1.5 1.5L7 17"/></svg>Tâches</div><div><svg viewBox="0 0 24 24" width="22" height="22" fill="none" stroke="currentColor" stroke-width="2" stroke-linecap="round" stroke-linejoin="round"><rect x="3" y="5" width="18" height="16" rx="2"/><path d="M8 3v4M16 3v4M3 10h18"/></svg>Agenda</div></nav>
 </body></html>

diff --git a/docs/mockups/cadre/cadre.css b/docs/mockups/cadre/cadre.css
@@ -9,12 +9,13 @@
 * { box-sizing: border-box; }
 body { margin: 0; overflow: hidden; display: flex; font-family: Inter, system-ui, sans-serif;
   background: var(--fond); color: var(--encre); line-height: 1.45; position: relative; }
-body.ordi { width: 1280px; height: 800px; }
+body.ordi { width: 1280px; height: 800px; flex-direction: column; }
+.dessous { flex: 1; min-height: 0; display: flex; }
 body.mobile { width: 390px; height: 844px; flex-direction: column; }
 svg { flex: none; }
 
 /* Navigation latérale */
-.nav { flex: none; width: 248px; background: var(--surface); border-right: 1px solid var(--trait);
+.nav { position: relative; flex: none; width: 248px; background: var(--surface); border-right: 1px solid var(--trait);
   display: flex; flex-direction: column; padding: 14px 12px; gap: 2px; }
 .nav .marque { display: flex; align-items: center; gap: 10px; padding: 4px 8px 16px; font-weight: 700; font-size: 15px; }
 .nav .logo { width: 32px; height: 32px; border-radius: 9px; background: var(--accent); color: #fff;
@@ -37,12 +38,12 @@ svg { flex: none; }
 .nav.repliee a { justify-content: center; padding: 0; width: 48px; }
 .nav.repliee a.point::after { content: ''; position: absolute; top: 9px; right: 11px; width: 8px; height: 8px;
   border-radius: 50%; background: var(--accent); border: 2px solid #fff; }
-.bulle { position: absolute; left: 76px; background: var(--encre); color: #fff; font-size: 13px; font-weight: 500;
+.bulle { position: absolute; left: 76px; z-index: 2; background: var(--encre); color: #fff; font-size: 13px; font-weight: 500;
   padding: 6px 10px; border-radius: 8px; white-space: nowrap; }
 
 /* Partie principale */
 .principal { flex: 1; min-width: 0; display: flex; flex-direction: column; }
-.barre { flex: none; height: 60px; background: var(--surface); border-bottom: 1px solid var(--trait);
+.barre { flex: none; height: 60px; position: relative; z-index: 1; background: var(--surface); border-bottom: 1px solid var(--trait);
   display: flex; align-items: center; gap: 12px; padding: 0 20px 0 12px; }
 .barre h1 { margin: 0; font-size: 20px; font-weight: 700; flex: 1; }
 .icone { width: 40px; height: 40px; border-radius: 999px; display: flex; align-items: center; justify-content: center;
@@ -71,4 +72,10 @@ svg { flex: none; }
 .onglets div { flex: 1; display: flex; flex-direction: column; align-items: center; gap: 3px; font-size: 11px; color: var(--gris); }
 .onglets div.actif { color: var(--accent); font-weight: 600; }
 .voile { position: absolute; inset: 0; background: rgba(16,23,21,.45); }
-.volet { position: absolute; top: 0; bottom: 0; left: 0; width: 300px; border-radius: 0 18px 18px 0; box-shadow: none; }
+.volet { height: 100%; width: 300px; border-radius: 0 18px 0 0; }
+
+/* La barre d'outils, au-dessus de tout : le foyer à gauche, le compte à droite */
+.barre .marque { display: flex; align-items: center; gap: 10px; font-weight: 700; font-size: 15px; flex: 1; }
+.barre .logo { width: 32px; height: 32px; border-radius: 9px; background: var(--accent); color: #fff;
+  display: flex; align-items: center; justify-content: center; }
+.titre-page { margin: 0; font-size: 24px; font-weight: 700; }

diff --git a/docs/mockups/cadre/README.md b/docs/mockups/cadre/README.md
@@ -21,8 +21,10 @@ node docs/mockups/cadre/rendre.js   # 1280 × 800 pour l'ordinateur, 390 × 844 
   l'**Administration**, qui n'apparaît qu'aux comptes qui en ont le droit — absente,
   pas grisée.
 - **Repliable** sur ordinateur ; le choix est retenu d'une visite à l'autre.
-- **La barre d'outils** : replier, le titre de la page (sans sous-titre), Ajouter,
-  la mise à jour du serveur quand il y en a une (administrateurs), la photo qui ouvre
-  le menu du compte.
+- **La barre d'outils est au-dessus de tout**, sur toute la largeur : le bouton ☰
+  qui replie la navigation, le foyer, puis Ajouter, la mise à jour du serveur quand
+  il y en a une (administrateurs) et la photo qui ouvre le menu du compte. La
+  navigation et la page sont dessous ; le titre de la page ouvre la page, sans
+  sous-titre.
 - **Sur téléphone, la page se comporte comme l'app**, pour qu'on n'ait pas deux
   façons de faire la même chose.
